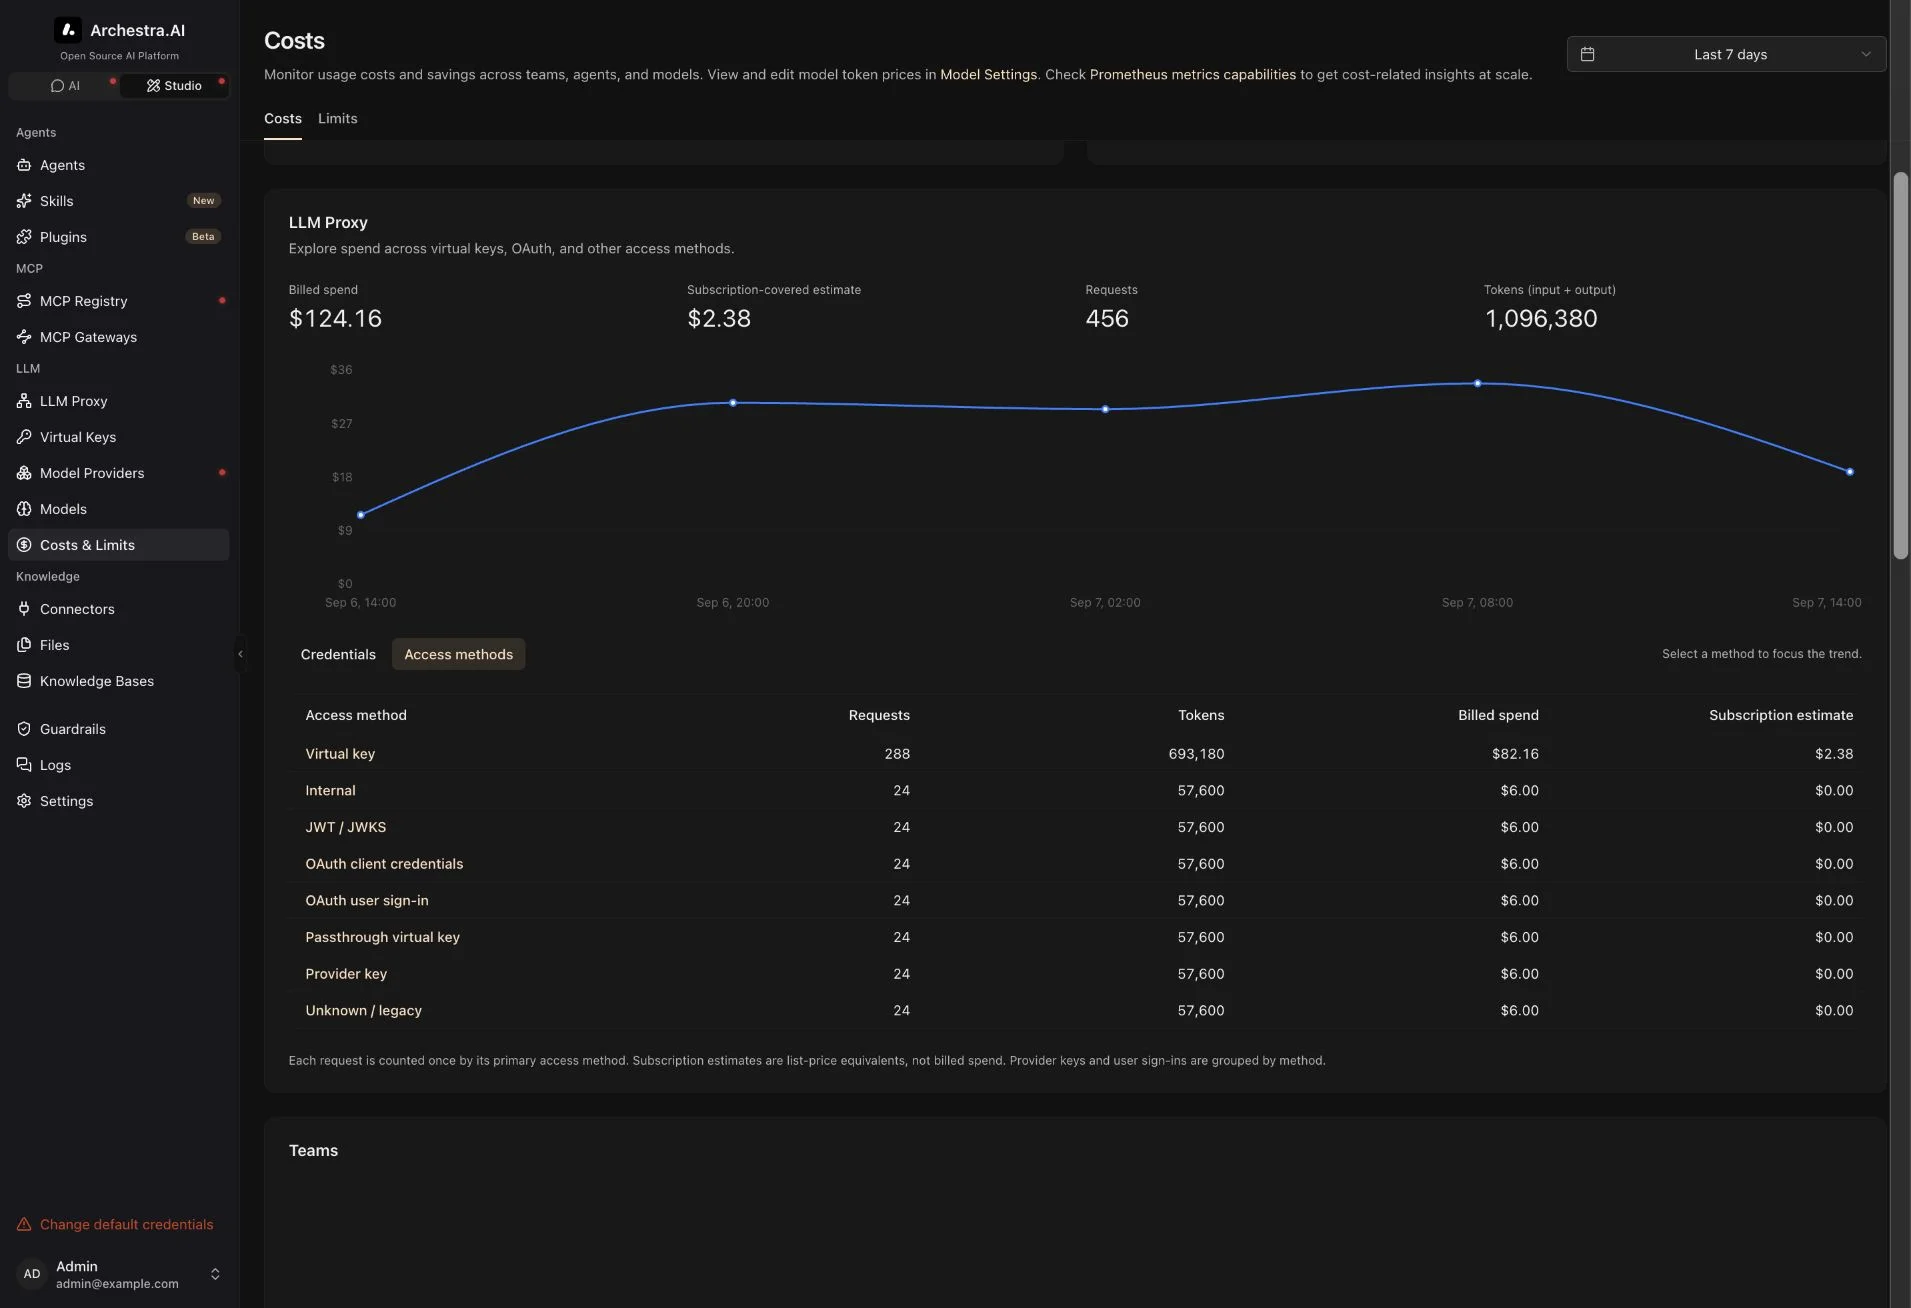
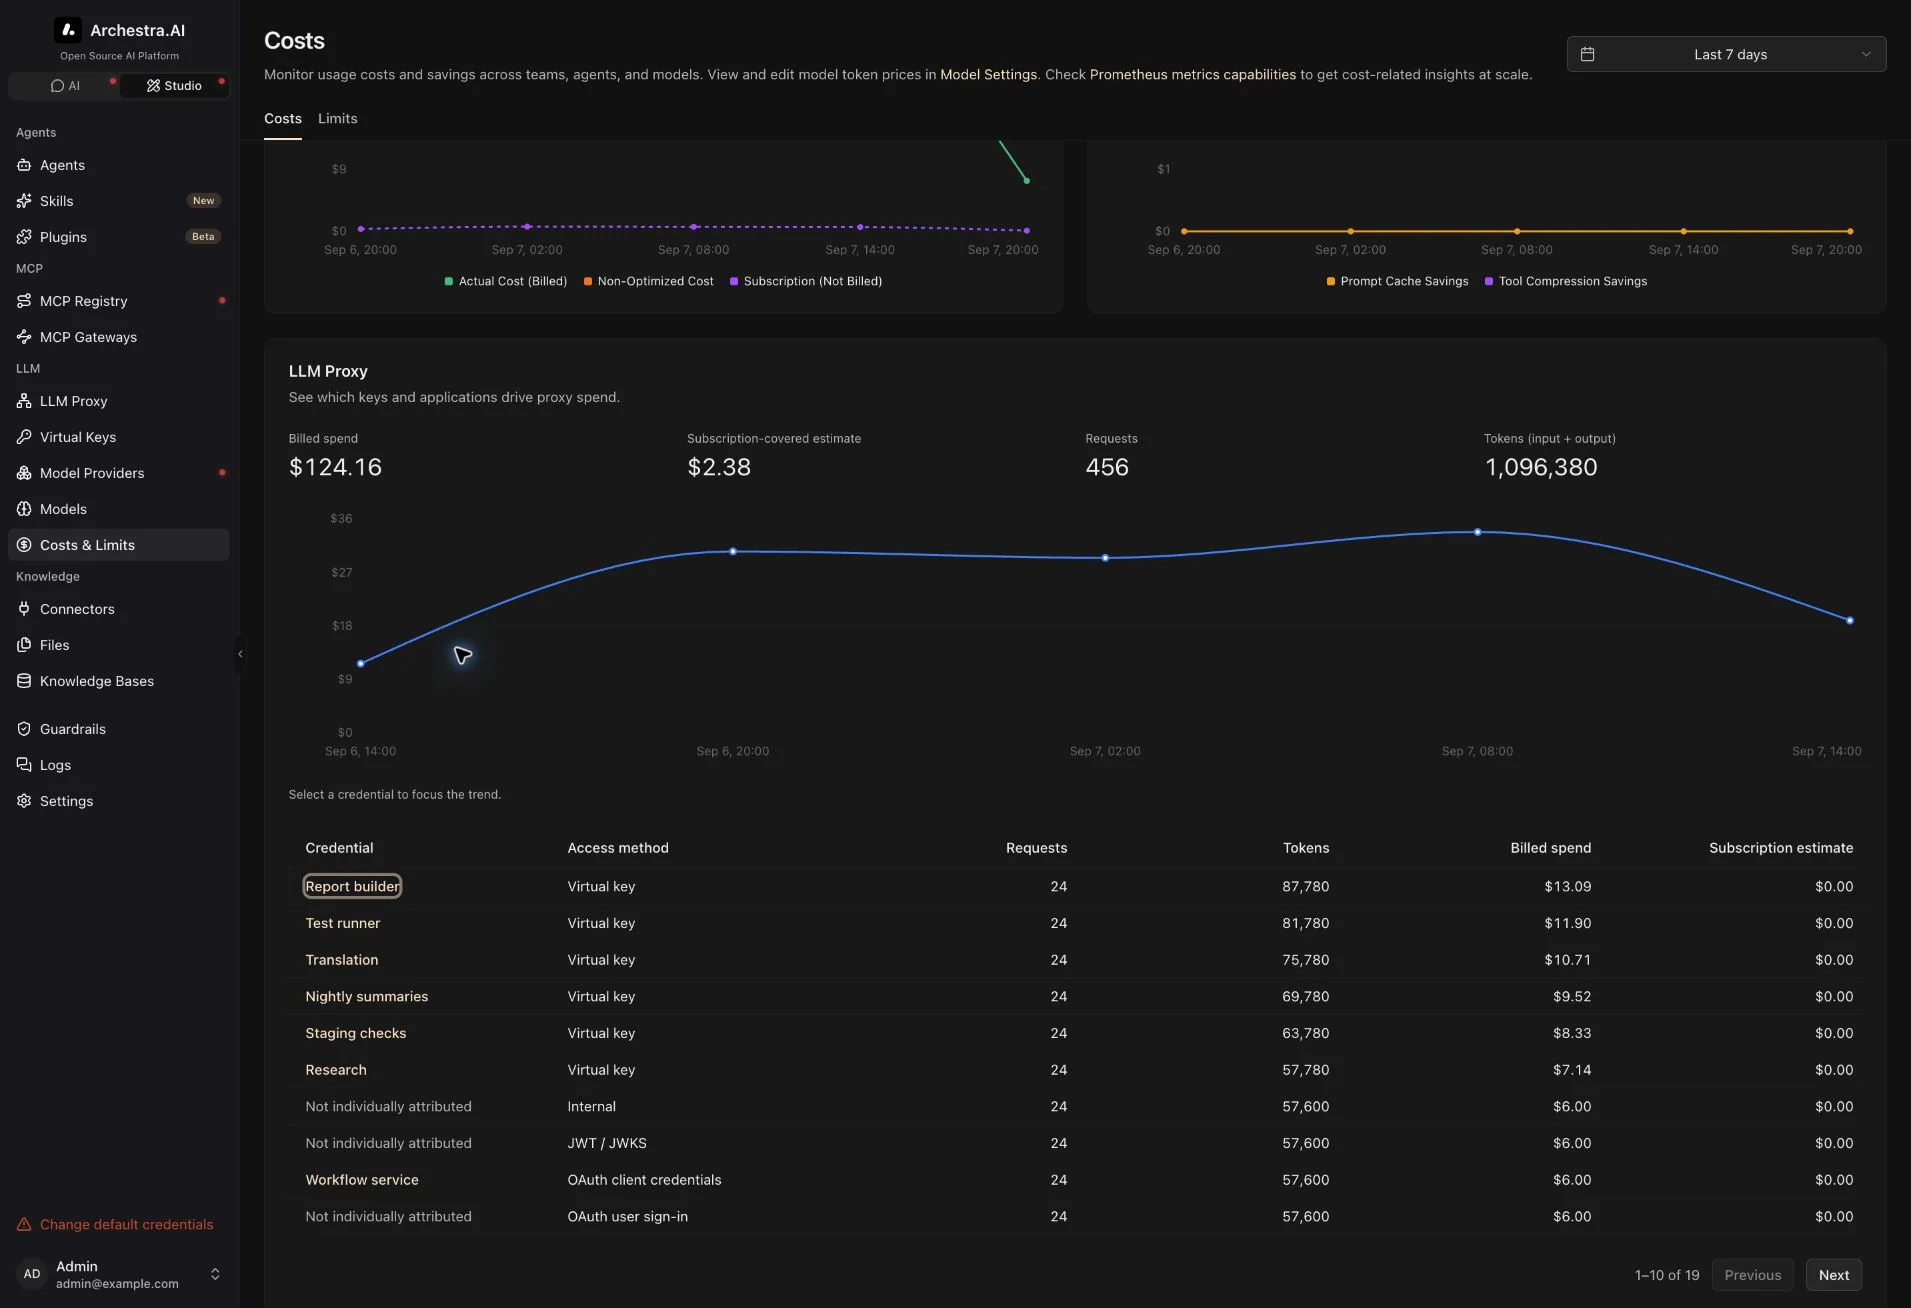
refactor(costs): focus proxy breakdown on credentials

diff --git a/platform/frontend/src/app/llm/(costs)/costs/proxy-cost-panel.tsx b/platform/frontend/src/app/llm/(costs)/costs/proxy-cost-panel.tsx
@@ -43,7 +43,6 @@ export function ProxyCostPanel({
   const [authMethod, setAuthMethod] = useState<AuthMethod>();
   const [credential, setCredential] = useState<{ id: string; name: string }>();
   const [offset, setOffset] = useState(0);
-  const [groupBy, setGroupBy] = useState("credentials");
   const query = useProxyCostStatistics({
     timeframe,
     enabled,
@@ -53,14 +52,6 @@ export function ProxyCostPanel({
     limit: PAGE_SIZE,
   });
   const { data } = query;
-  const rows =
-    groupBy === "methods"
-      ? data?.methods.map((row) => ({
-          ...row,
-          credentialId: null,
-          credentialName: null,
-        }))
-      : data?.credentials;
   const reset = () => {
     setAuthMethod(undefined);
     setCredential(undefined);
@@ -72,7 +63,7 @@ export function ProxyCostPanel({
       <CardHeader>
         <CardTitle>LLM Proxy</CardTitle>
         <CardDescription>
-          Explore spend across virtual keys, OAuth, and other access methods.
+          See which keys and applications drive proxy spend.
         </CardDescription>
         {(authMethod || credential) && (
           <div className="flex items-center gap-3 text-sm">
@@ -162,41 +153,15 @@ export function ProxyCostPanel({
                 />
               </LineChart>
             </ChartContainer>
-            <div className="flex flex-wrap items-center justify-between gap-3">
-              <fieldset
-                className="flex gap-1"
-                aria-label="Proxy cost breakdown"
-              >
-                <Button
-                  size="sm"
-                  variant={groupBy === "credentials" ? "secondary" : "ghost"}
-                  onClick={() => setGroupBy("credentials")}
-                >
-                  Credentials
-                </Button>
-                <Button
-                  size="sm"
-                  variant={groupBy === "methods" ? "secondary" : "ghost"}
-                  onClick={() => setGroupBy("methods")}
-                >
-                  Access methods
-                </Button>
-              </fieldset>
-              <p className="text-xs text-muted-foreground">
-                Select a {groupBy === "methods" ? "method" : "credential"} to
-                focus the trend.
-              </p>
-            </div>
+            <p className="text-xs text-muted-foreground">
+              Select a credential to focus the trend.
+            </p>
             <div className="overflow-x-auto rounded-md border">
               <Table className="min-w-[680px]">
                 <TableHeader>
                   <TableRow>
-                    <TableHead>
-                      {groupBy === "methods" ? "Access method" : "Credential"}
-                    </TableHead>
-                    {groupBy === "credentials" && (
-                      <TableHead>Access method</TableHead>
-                    )}
+                    <TableHead>Credential</TableHead>
+                    <TableHead>Access method</TableHead>
                     <TableHead className="text-right">Requests</TableHead>
                     <TableHead className="text-right">Tokens</TableHead>
                     <TableHead className="text-right">Billed spend</TableHead>
@@ -206,22 +171,10 @@ export function ProxyCostPanel({
                   </TableRow>
                 </TableHeader>
                 <TableBody>
-                  {rows?.map((row) => (
+                  {data.credentials.map((row) => (
                     <TableRow key={`${row.authMethod}:${row.credentialId}`}>
                       <TableCell className="max-w-[280px]">
-                        {groupBy === "methods" ? (
-                          <Button
-                            variant="link"
-                            className="h-auto p-0"
-                            onClick={() => {
-                              setAuthMethod(row.authMethod);
-                              setCredential(undefined);
-                              setOffset(0);
-                            }}
-                          >
-                            {METHOD_NAMES[row.authMethod]}
-                          </Button>
-                        ) : row.credentialId ? (
+                        {row.credentialId ? (
                           <Button
                             variant="link"
                             className="h-auto max-w-full p-0"
@@ -252,9 +205,7 @@ export function ProxyCostPanel({
                           </span>
                         )}
                       </TableCell>
-                      {groupBy === "credentials" && (
-                        <TableCell>{METHOD_NAMES[row.authMethod]}</TableCell>
-                      )}
+                      <TableCell>{METHOD_NAMES[row.authMethod]}</TableCell>
                       <TableCell className="text-right tabular-nums">
                         {row.requests.toLocaleString()}
                       </TableCell>
@@ -272,7 +223,7 @@ export function ProxyCostPanel({
                 </TableBody>
               </Table>
             </div>
-            {groupBy === "credentials" && data.pagination.total > PAGE_SIZE && (
+            {data.pagination.total > PAGE_SIZE && (
               <div className="flex items-center justify-end gap-3">
                 <span className="text-sm text-muted-foreground">
                   {offset + 1}–

diff --git a/platform/frontend/src/app/llm/(costs)/costs/proxy-cost-panel.test.tsx b/platform/frontend/src/app/llm/(costs)/costs/proxy-cost-panel.test.tsx
@@ -93,13 +93,50 @@ test("filters the real API query when a credential is selected, clears it, and p
   expect(urls.at(-1)?.searchParams.has("credentialId")).toBe(false);
   expect(screen.getAllByText("$3.50").length).toBeGreaterThan(0);
   expect(screen.getByText("Subscription-covered estimate")).toBeInTheDocument();
-  fireEvent.click(screen.getByRole("button", { name: "Access methods" }));
-  fireEvent.click(screen.getByRole("button", { name: "Virtual key" }));
-  await waitFor(() =>
-    expect(urls.at(-1)?.searchParams.get("authMethod")).toBe("virtual_key"),
+});
+
+test("shows an OAuth application's own totals when its credential is selected", async () => {
+  const appTotals = {
+    ...totals,
+    requests: 3,
+    billedCost: 1.25,
+    subscriptionCost: 0,
+  };
+  const app = {
+    ...appTotals,
+    authMethod: "oauth_client_credentials",
+    credentialId: "workflow-service",
+    credentialName: "Workflow service",
+  };
+  server.use(
+    http.get(endpoint, ({ request }) => {
+      const query = new URL(request.url).searchParams;
+      const filtered =
+        query.get("credentialId") === app.credentialId &&
+        query.get("authMethod") === app.authMethod;
+      return HttpResponse.json({
+        ...data,
+        totals: filtered ? appTotals : totals,
+        credentials: filtered ? [app] : [...data.credentials, app],
+        pagination: { total: filtered ? 1 : 2, limit: 10, offset: 0 },
+      });
+    }),
   );
-  expect(urls.at(-1)?.searchParams.has("credentialId")).toBe(false);
-  expect(urls.at(-1)?.searchParams.get("offset")).toBe("0");
+  renderPanel();
+  fireEvent.click(
+    await screen.findByRole("button", { name: "Workflow service" }),
+  );
+  await waitFor(() =>
+    expect(
+      screen.queryByRole("button", { name: "Build pipeline" }),
+    ).not.toBeInTheDocument(),
+  );
+  expect(screen.queryByText("$3.50")).not.toBeInTheDocument();
+  expect(await screen.findAllByText("$1.25")).toHaveLength(2);
+  fireEvent.click(screen.getByRole("button", { name: "Clear filter" }));
+  expect(
+    await screen.findByRole("button", { name: "Build pipeline" }),
+  ).toBeInTheDocument();
 });
 
 test("renders a retryable error rather than an empty usage report and recovers", async () => {

diff --git a/docs/pages/platform-costs-and-limits.md b/docs/pages/platform-costs-and-limits.md
@@ -34,7 +34,7 @@ Reading organization-wide costs requires `llmCost:read`. See [LLM API Permission
 
 ## Proxy Cost Attribution
 
-![Proxy spend grouped by access method, with billed spend and subscription estimates](/docs/automated_screenshots/platform-costs-and-limits_proxy-attribution.webp)
+![Proxy spend by credential, with billed spend and subscription estimates](/docs/automated_screenshots/platform-costs-and-limits_proxy-attribution.webp)
 
 Virtual keys and OAuth client credentials identify individual proxy callers. Other methods group requests without naming individual credentials. OAuth sign-ins do not necessarily imply subscription billing.
 
